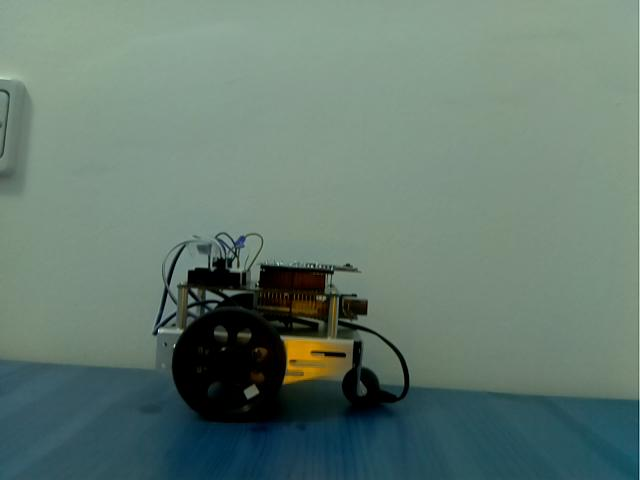
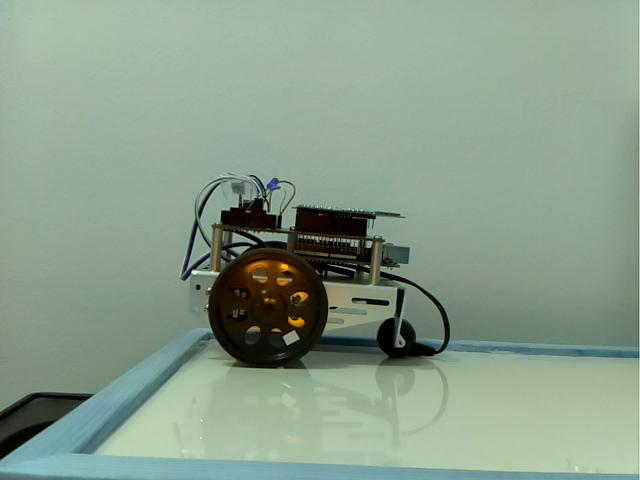
bounding box rectangle around the identified target

diff --git a/server/FPV.py b/server/FPV.py
@@ -31,6 +31,16 @@ import numpy as np
 import or_App as App
 app = App.App()
 
+"""
+in the method: 'capture_thread(self,IPinver)'
+it sets: camera.resolution = (640, 480)
+at https://picamera.readthedocs.io/en/release-1.12/api_camera.html
+camera.resolution = (width, height)
+so I will use this size here as const to be used in my code
+"""
+RESOLUTION_W = 640
+RESOLUTION_H = 480
+
 
 pid = PID.PID()
 pid.SetKp(0.5)
@@ -274,12 +284,12 @@ class FPV:
 			if FindItemMode:
 				if(app.detectItem(frame_image) == True):
 					cv2.putText(frame_image,app.getTragetItem() + ' Detected',(40,60), font, 0.5,(255,255,255),1,cv2.LINE_AA)
-					cv2.rectangle(frame_image,
-					(app.getBoundingPolygonPt1().getX + 50,
-					app.getBoundingPolygonPt1().getY + 50),
-					(app.getBoundingPolygonPt2().getX + 50,
-					app.getBoundingPolygonPt2().getY + 50),
-					(0,0,255),2)
+					# Draw the rectangle around the target object
+					pt1x = int(app.getBoundingPolygonPt1().getX() * RESOLUTION_W)
+					pt1y = int(app.getBoundingPolygonPt1().getY() * RESOLUTION_H)
+					pt2x = int(app.getBoundingPolygonPt2().getX() * RESOLUTION_W)
+					pt2y = int(app.getBoundingPolygonPt2().getY() * RESOLUTION_H)
+					cv2.rectangle(frame_image,(pt1x,pt1y),(pt2x,pt2y),(128,255,128),2)
 				else:
 					cv2.putText(frame_image,app.getTragetItem() + ' Detecting',(40,60), font, 0.5,(255,255,255),1,cv2.LINE_AA)
 					

diff --git a/server/or_Vision.py b/server/or_Vision.py
@@ -55,8 +55,8 @@ class Vision:
 
     def __init__(self):
         self.client = gcVision.ImageAnnotatorClient()
-        self.pt1 = 0.0
-        self.pt2 = 0.0
+        self.pt1 = Point(0, 0)
+        self.pt2 = Point(0, 0)
 
     def isDetectItem(self, frame_image, lstTargetProperties):
         detect = False
@@ -79,11 +79,12 @@ class Vision:
 
         for obj in objects:
             print("Item identified: " + obj.name)
-            # if obj.name == "Wheel":
+            if obj.name == "Wheel":
             # if obj.name in lstTargetProperties:
-            vertices = obj.bounding_poly.normalized_vertices
-            self.pt1 = Point(vertices[0].x, vertices[0].y)
-            self.pt2 = Point(vertices[2].x, vertices[2].y)
+                vertices = obj.bounding_poly.normalized_vertices
+                self.pt1 = Point(vertices[0].x, vertices[0].y)
+                self.pt2 = Point(vertices[2].x, vertices[2].y)
+                detect = True
 
         return detect
 

diff --git a/server/or_App.py b/server/or_App.py
@@ -140,7 +140,7 @@ class App:
         return vision.getBoundingPolygonPt1()
 
     def getBoundingPolygonPt2(self):
-        return vision.getBoundingPolygonPt2(self)
+        return vision.getBoundingPolygonPt2()
 
 # **********************    Functions   **********************
 
